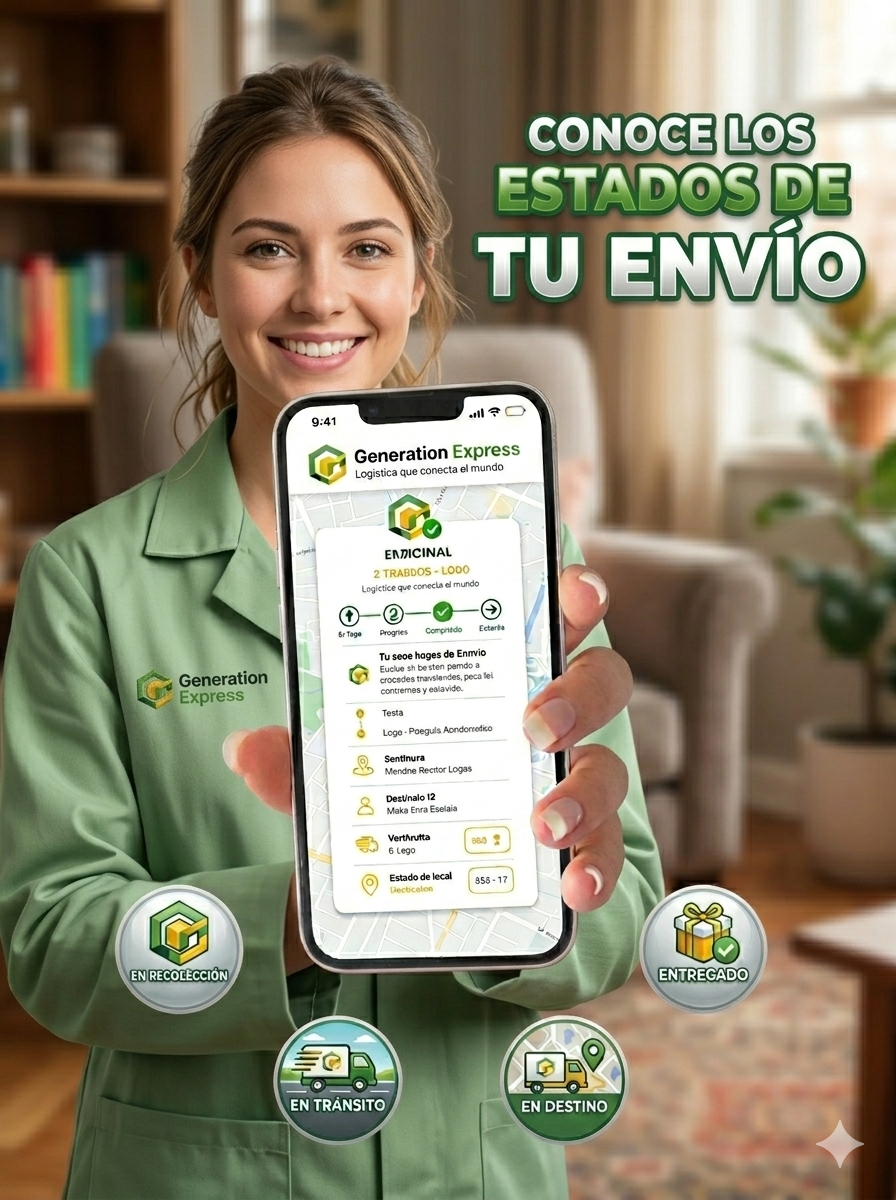
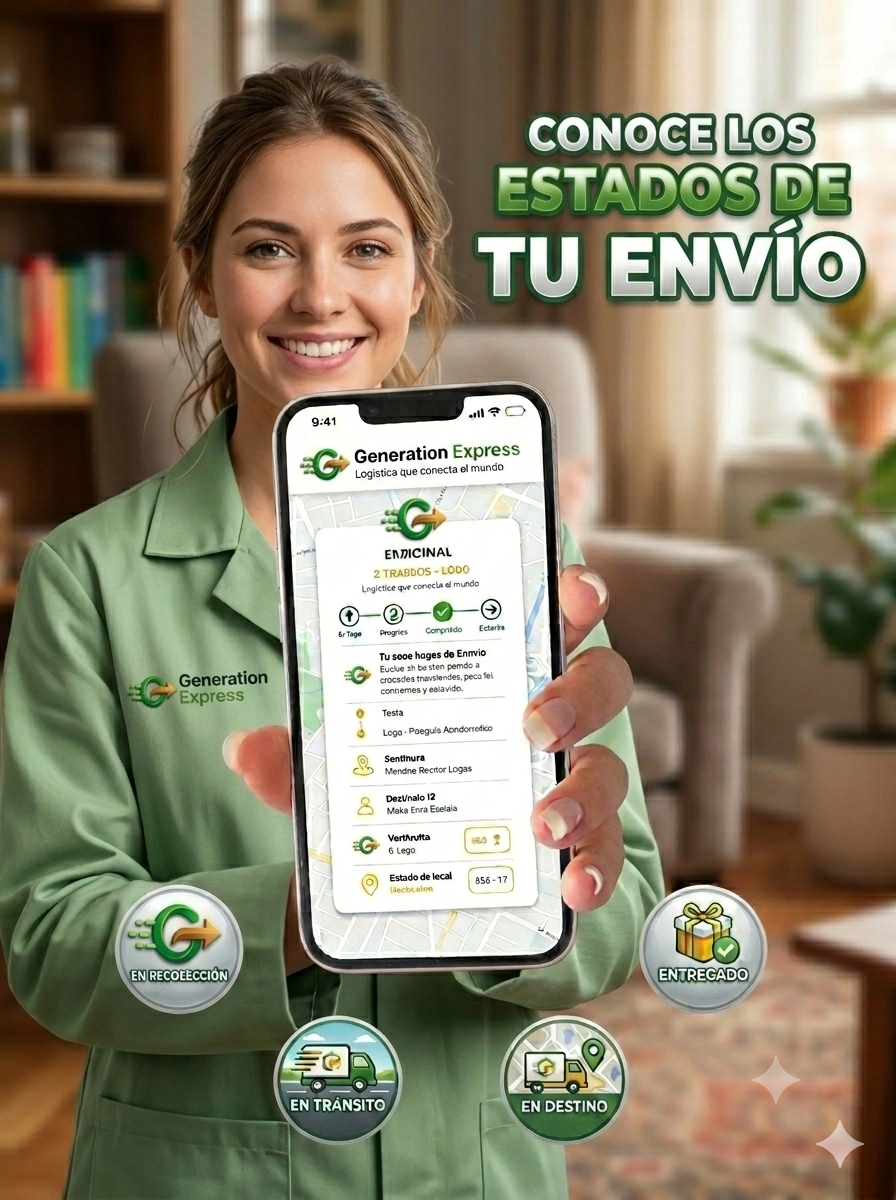
fix: se ajusta tamaño imagen rastreo

diff --git a/index.html b/index.html
@@ -37,7 +37,7 @@
                 <div class="col-lg-6 col-12 text-white hero-text">
                     <h1 class="display-3 fw-bold">Logística inteligente que conecta negocios con el mundo</h1>
                     <p class="lead mb-4">Envíos seguros, rápidos y confiables a cualquier parte del mundo.</p>
-                    <a href="#" class="btn btn-rastrear">Rastrear envío</a>
+                    <a href="/pages/rastreo.html" class="btn btn-rastrear">Rastrear envío</a>
                 </div>
             </div>
         </div>

diff --git a/assets/styles/rastreo.css b/assets/styles/rastreo.css
@@ -93,6 +93,7 @@
 .rastreo-img{
   max-width: 100%;
   height: auto;
+  max-height: 760px;
   box-shadow: 0px 4px 8px rgba(0, 0, 0, 0.1);
   border-radius: 2px;
 }
